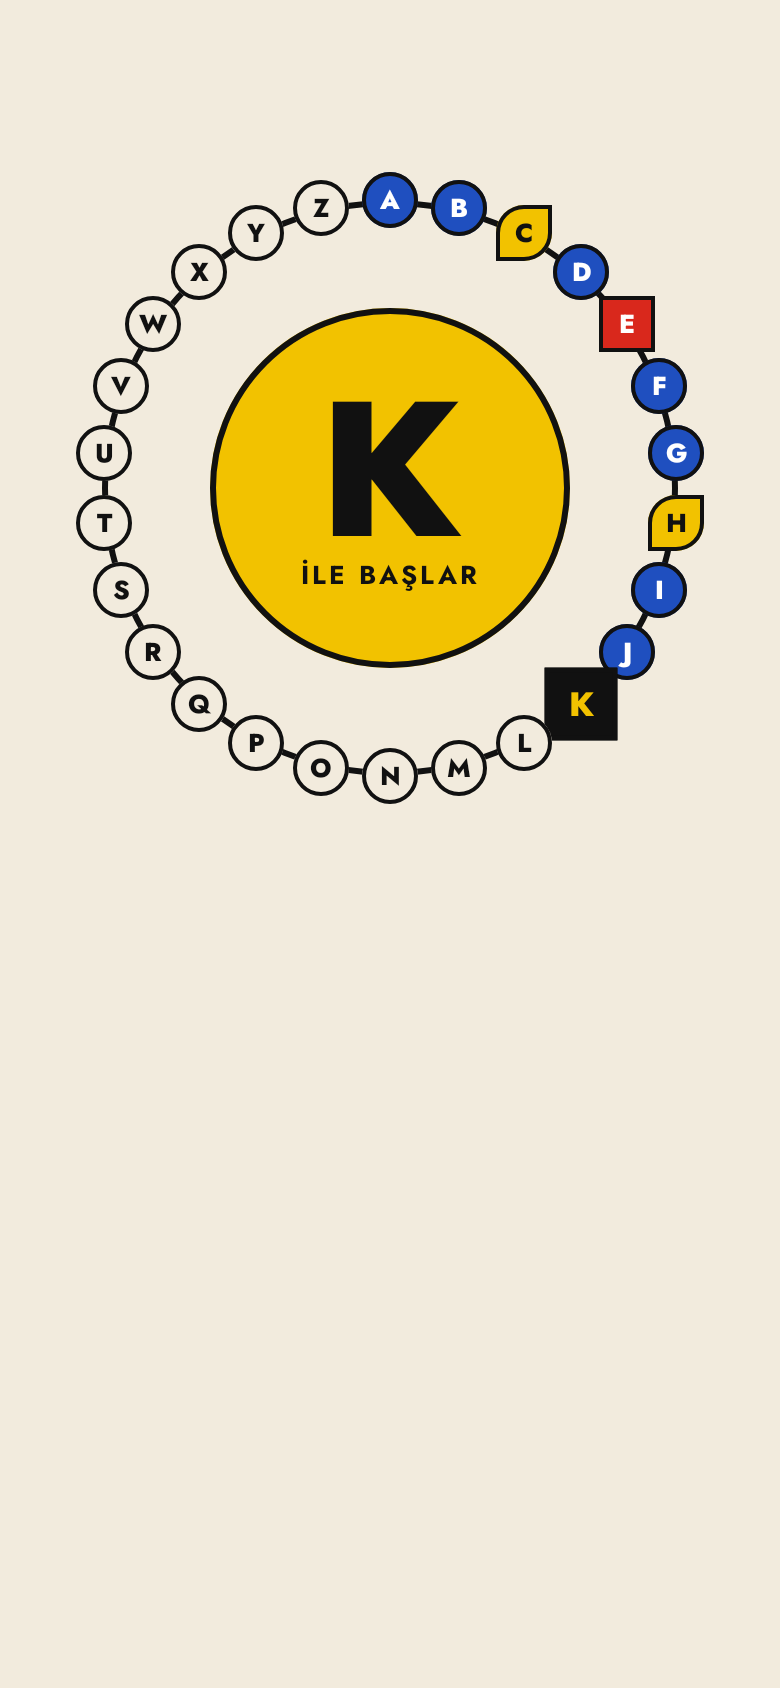
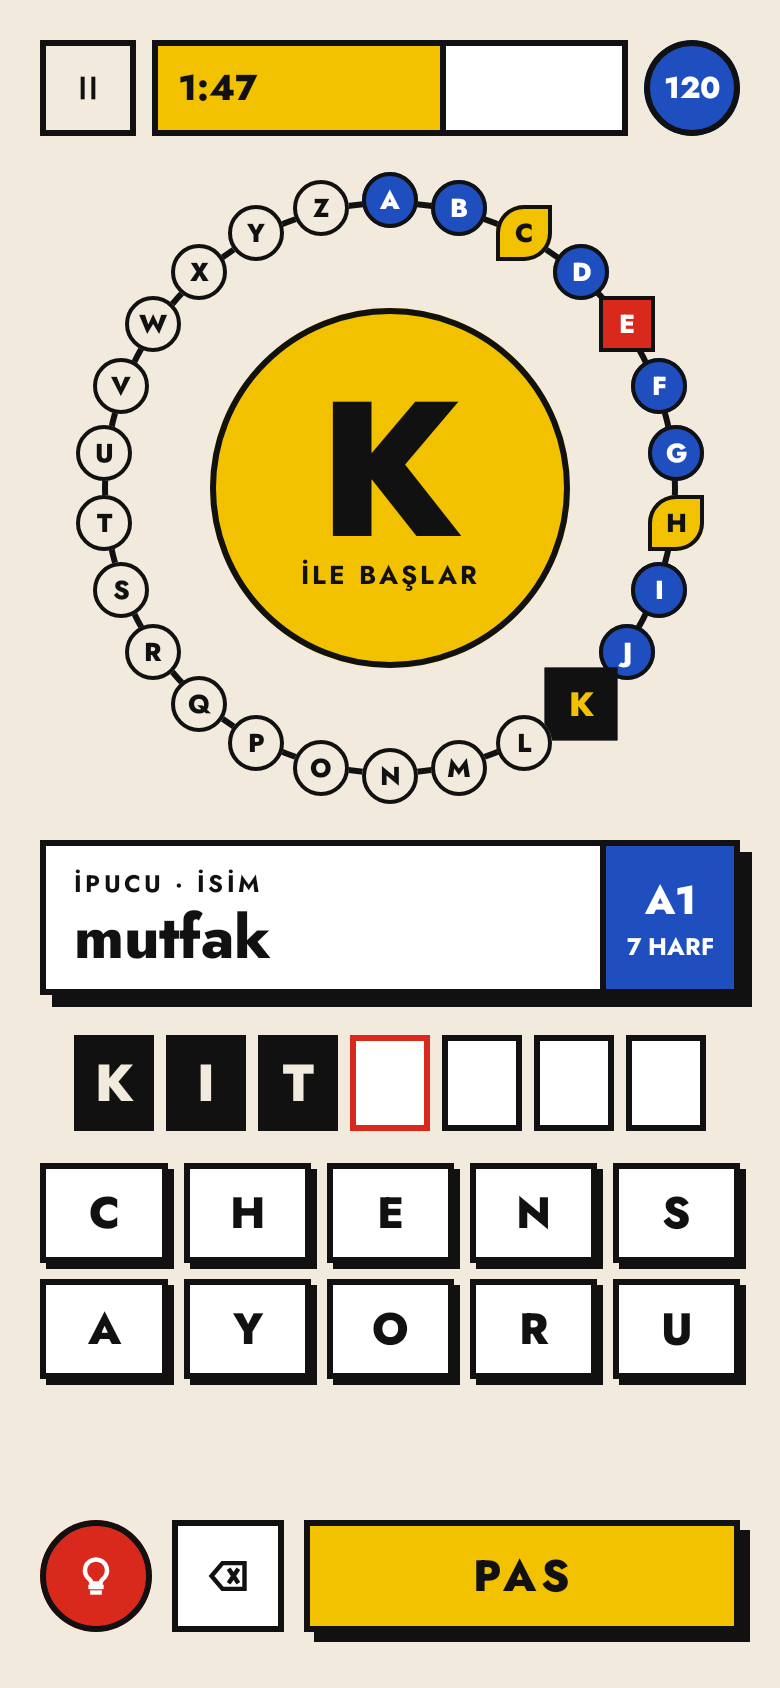
feat(designsystem): add ClueCard, TimerBar and ScoreBadge
- ClueCard: white, 3dp border, s6; label12 + clue (30/800, lh 1.05)
  with padding 10/14, and the 64dp blue column (3dp ink left border)
  with level (heading20) and letter count (new token caption12Bold).
- TimerBar: 48dp, 3dp border, white track, fill with a 3dp right edge;
  yellow, red in the last 10 s, when the counter pulses 1 -> 1.18 -> 1 on
  every new timeText (motion.md #8; 240 ms up / 280 ms down from the
  aPulse keyframes, new LexiMotion tokens; no scale under reduced
  motion). The counter is an overlay 10dp from the left so it stays
  readable when the fill is shorter than the text.
- ScoreBadge: 48dp blue circle, 3dp border, white bodyStrong15.
- GameComponents.png now holds the whole 04-game stack (top bar, wheel,
  clue, slots, 5-column keys, joker/backspace/PAS row). Against
  04-game.png: every element within 1px at 2x; the decor shapes come
  with DecorShape.

diff --git a/core/designsystem/src/commonMain/kotlin/dev/talhabayhan/lexi/core/designsystem/component/GameHud.kt b/core/designsystem/src/commonMain/kotlin/dev/talhabayhan/lexi/core/designsystem/component/GameHud.kt
@@ -1,0 +1,168 @@
+package dev.talhabayhan.lexi.core.designsystem.component
+
+import androidx.compose.animation.core.Animatable
+import androidx.compose.animation.core.LinearEasing
+import androidx.compose.animation.core.tween
+import androidx.compose.foundation.BorderStroke
+import androidx.compose.foundation.background
+import androidx.compose.foundation.layout.Arrangement
+import androidx.compose.foundation.layout.Box
+import androidx.compose.foundation.layout.Column
+import androidx.compose.foundation.layout.IntrinsicSize
+import androidx.compose.foundation.layout.Row
+import androidx.compose.foundation.layout.fillMaxHeight
+import androidx.compose.foundation.layout.fillMaxWidth
+import androidx.compose.foundation.layout.height
+import androidx.compose.foundation.layout.padding
+import androidx.compose.foundation.layout.size
+import androidx.compose.foundation.layout.width
+import androidx.compose.material3.Text
+import androidx.compose.runtime.Composable
+import androidx.compose.runtime.LaunchedEffect
+import androidx.compose.runtime.remember
+import androidx.compose.ui.Alignment
+import androidx.compose.ui.Modifier
+import androidx.compose.ui.graphics.graphicsLayer
+import androidx.compose.ui.semantics.semantics
+import androidx.compose.ui.tooling.preview.Preview
+import androidx.compose.ui.unit.Dp
+import androidx.compose.ui.unit.dp
+import dev.talhabayhan.lexi.core.designsystem.modifier.lexiSurface
+import dev.talhabayhan.lexi.core.designsystem.theme.LexiTheme
+
+/** Game HUD geometry (`04-game.html`). */
+public object GameHudDefaults {
+    /** 48: top bar height (pause, timer, score). */
+    public val BarHeight: Dp = 48.dp
+
+    /** Clue card: `padding: 10px 14px`, gap 2, right column 64 + 3dp border. */
+    internal val CluePaddingHorizontal: Dp = 14.dp
+    internal val CluePaddingVertical: Dp = 10.dp
+    internal val ClueSideWidth: Dp = 64.dp
+
+    /** Timer text inset from the bar's left edge. */
+    internal val TimerTextInset: Dp = 10.dp
+}
+
+/**
+ * The clue card: white, 3dp border, s6; label (e.g. "İPUCU · İSİM") over the Turkish clue on the left, the blue
+ * 64dp column with level and letter count ("A1", "7 HARF") on the right.
+ */
+@Composable
+public fun ClueCard(label: String, clue: String, level: String, letterCount: String, modifier: Modifier = Modifier) {
+    val colors = LexiTheme.colors
+    val typography = LexiTheme.typography
+    Row(
+        modifier = modifier
+            .height(IntrinsicSize.Min)
+            .lexiSurface(colors.white, BorderStroke(LexiTheme.borders.regular, colors.ink), LexiTheme.shadows.s6),
+    ) {
+        Column(
+            modifier = Modifier
+                .weight(1f)
+                .semantics(mergeDescendants = true) {}
+                .padding(
+                    horizontal = GameHudDefaults.CluePaddingHorizontal,
+                    vertical = GameHudDefaults.CluePaddingVertical,
+                ),
+            verticalArrangement = Arrangement.spacedBy(LexiTheme.dimens.gap2),
+        ) {
+            Text(label, style = typography.label12)
+            Text(clue, style = typography.clue)
+        }
+        Box(Modifier.width(LexiTheme.borders.regular).fillMaxHeight().background(colors.ink))
+        Column(
+            modifier = Modifier
+                .width(GameHudDefaults.ClueSideWidth)
+                .fillMaxHeight()
+                .semantics(mergeDescendants = true) {}
+                .background(colors.blue),
+            horizontalAlignment = Alignment.CenterHorizontally,
+            verticalArrangement = Arrangement.Center,
+        ) {
+            Text(level, style = typography.heading20, color = colors.white)
+            Text(letterCount, style = typography.caption12Bold, color = colors.white)
+        }
+    }
+}
+
+/**
+ * Countdown bar: 48dp, 3dp border, white track; the fill ([progress] 0..1) is yellow with a 3dp right edge, red in
+ * the last 10 s ([warning]), when the counter pulses 1 → 1.18 → 1 on every change of [timeText] (motion.md #8; no
+ * scale under reduced motion). The counter (18sp/800) sits 10dp from the left over the fill.
+ */
+@Composable
+public fun TimerBar(progress: Float, timeText: String, modifier: Modifier = Modifier, warning: Boolean = false) {
+    val colors = LexiTheme.colors
+    val motion = LexiTheme.motion
+    val border = LexiTheme.borders.regular
+    val pulse = remember { Animatable(1f) }
+    LaunchedEffect(timeText, warning, motion) {
+        if (!warning || motion.reducedMotion) {
+            pulse.snapTo(1f)
+            return@LaunchedEffect
+        }
+        pulse.animateTo(motion.timeWarningPulseScale, tween(motion.timeWarningPulseUpMillis, easing = LinearEasing))
+        pulse.animateTo(1f, tween(motion.timeWarningPulseDownMillis, easing = LinearEasing))
+    }
+    Box(
+        modifier = modifier
+            .height(GameHudDefaults.BarHeight)
+            .lexiSurface(colors.white, BorderStroke(border, colors.ink)),
+        contentAlignment = Alignment.CenterStart,
+    ) {
+        val fraction = progress.coerceIn(0f, 1f)
+        if (fraction > 0f) {
+            Row(Modifier.fillMaxWidth(fraction).fillMaxHeight()) {
+                Box(Modifier.weight(1f).fillMaxHeight().background(if (warning) colors.red else colors.yellow))
+                Box(Modifier.width(border).fillMaxHeight().background(colors.ink))
+            }
+        }
+        Text(
+            text = timeText,
+            style = LexiTheme.typography.heading18,
+            modifier = Modifier
+                .padding(start = GameHudDefaults.TimerTextInset)
+                .graphicsLayer {
+                    scaleX = pulse.value
+                    scaleY = pulse.value
+                },
+        )
+    }
+}
+
+/** Score badge: 48dp blue circle, 3dp border, white 15sp/800. */
+@Composable
+public fun ScoreBadge(score: String, modifier: Modifier = Modifier) {
+    Box(
+        modifier = modifier
+            .size(GameHudDefaults.BarHeight)
+            .lexiSurface(
+                color = LexiTheme.colors.blue,
+                border = BorderStroke(LexiTheme.borders.regular, LexiTheme.colors.ink),
+                shape = LexiTheme.shapes.circle,
+            ),
+        contentAlignment = Alignment.Center,
+    ) {
+        Text(score, style = LexiTheme.typography.bodyStrong15, color = LexiTheme.colors.white)
+    }
+}
+
+// design sample, not user-facing
+@Preview(widthDp = 390)
+@Composable
+private fun GameHudPreview() {
+    LexiTheme(reducedMotion = false) {
+        Column(
+            modifier = Modifier.background(LexiTheme.colors.cream).padding(LexiTheme.dimens.gap20),
+            verticalArrangement = Arrangement.spacedBy(LexiTheme.dimens.gap16),
+        ) {
+            Row(horizontalArrangement = Arrangement.spacedBy(LexiTheme.dimens.gap8)) {
+                TimerBar(progress = 0.62f, timeText = "1:47", modifier = Modifier.weight(1f))
+                ScoreBadge("120")
+            }
+            TimerBar(progress = 0.1f, timeText = "0:09", warning = true, modifier = Modifier.fillMaxWidth())
+            ClueCard(label = "İPUCU · İSİM", clue = "mutfak", level = "A1", letterCount = "7 HARF")
+        }
+    }
+}

diff --git a/core/designsystem/src/androidHostTest/kotlin/dev/talhabayhan/lexi/core/designsystem/component/GameSampleScreenshotTest.kt b/core/designsystem/src/androidHostTest/kotlin/dev/talhabayhan/lexi/core/designsystem/component/GameSampleScreenshotTest.kt
@@ -2,8 +2,9 @@ package dev.talhabayhan.lexi.core.designsystem.component
 
 import androidx.compose.foundation.background
 import androidx.compose.foundation.layout.Arrangement
-import androidx.compose.foundation.layout.Box
 import androidx.compose.foundation.layout.Column
+import androidx.compose.foundation.layout.Row
+import androidx.compose.foundation.layout.Spacer
 import androidx.compose.foundation.layout.fillMaxSize
 import androidx.compose.foundation.layout.fillMaxWidth
 import androidx.compose.foundation.layout.height
@@ -13,6 +14,7 @@ import androidx.compose.ui.Alignment
 import androidx.compose.ui.Modifier
 import androidx.compose.ui.unit.dp
 import com.github.takahirom.roborazzi.captureRoboImage
+import dev.talhabayhan.lexi.core.designsystem.icon.LexiIcons
 import dev.talhabayhan.lexi.core.designsystem.theme.LexiTheme
 import org.junit.Test
 import org.junit.runner.RunWith
@@ -57,12 +59,52 @@ private fun GameSample() {
             .padding(start = 20.dp, top = 20.dp, end = 20.dp, bottom = 28.dp),
         verticalArrangement = Arrangement.spacedBy(16.dp),
     ) {
-        Box(Modifier.fillMaxWidth().height(48.dp))
+        Row(Modifier.height(48.dp), horizontalArrangement = Arrangement.spacedBy(8.dp)) {
+            NavSquareButton(
+                LexiIcons.Pause,
+                "Duraklat",
+                onClick = {},
+                size = IconButtonDefaults.NavSizeLarge,
+                iconSize = IconButtonDefaults.IconSizeSmall,
+                containerColor = LexiTheme.colors.cream,
+            )
+            TimerBar(progress = 0.62f, timeText = "1:47", modifier = Modifier.weight(1f))
+            ScoreBadge("120")
+        }
         LetterWheel(
             letters = GameWheelLetters,
             centerLetter = 'K',
             ruleLabel = "İLE BAŞLAR",
             modifier = Modifier.align(Alignment.CenterHorizontally),
         )
+        ClueCard(label = "İPUCU · İSİM", clue = "mutfak", level = "A1", letterCount = "7 HARF")
+        Row(
+            modifier = Modifier.fillMaxWidth().padding(top = 4.dp),
+            horizontalArrangement = Arrangement.spacedBy(AnswerSlotDefaults.Gap, Alignment.CenterHorizontally),
+        ) {
+            "KIT".forEach { AnswerSlot(it, AnswerSlotState.Filled) }
+            AnswerSlot(null, AnswerSlotState.Active)
+            repeat(3) { AnswerSlot(null, AnswerSlotState.Empty) }
+        }
+        Column(verticalArrangement = Arrangement.spacedBy(LetterKeyDefaults.GridGap)) {
+            "CHENSAYORU".chunked(LetterKeyDefaults.COLUMNS).forEach { row ->
+                Row(horizontalArrangement = Arrangement.spacedBy(LetterKeyDefaults.GridGap)) {
+                    row.forEach { LetterKey(it, onClick = {}, modifier = Modifier.weight(1f)) }
+                }
+            }
+        }
+        Spacer(Modifier.weight(1f))
+        Row(horizontalArrangement = Arrangement.spacedBy(10.dp), verticalAlignment = Alignment.CenterVertically) {
+            ActionCircleButton(LexiIcons.Bulb, "Joker kullan", onClick = {})
+            IconSquareButton(LexiIcons.Backspace, "Harf sil", onClick = {})
+            LexiButton(
+                text = "PAS",
+                onClick = {},
+                variant = LexiButtonVariant.Pass,
+                textStyle = LexiTheme.typography.button22,
+                height = LexiButtonDefaults.LargeHeight,
+                modifier = Modifier.weight(1f),
+            )
+        }
     }
 }

diff --git a/core/designsystem/src/commonMain/kotlin/dev/talhabayhan/lexi/core/designsystem/theme/LexiTypography.kt b/core/designsystem/src/commonMain/kotlin/dev/talhabayhan/lexi/core/designsystem/theme/LexiTypography.kt
@@ -87,6 +87,8 @@ public class LexiTypography internal constructor(
     public val label12: TextStyle,
     /** 13 / 800: wheel letters. */
     public val wheelChip: TextStyle,
+    /** 12 / 700: clue-card letter count "7 HARF" (`04-game`). */
+    public val caption12Bold: TextStyle,
     /** 16 / 600: list row labels (`11-settings`). */
     public val body16SemiBold: TextStyle,
     /** 14 / 600: level-card subtitles, empty state (`03-level-select`). */
@@ -197,6 +199,7 @@ internal fun lexiTypography(jost: FontFamily): LexiTypography {
         label13 = style(13, FontWeight.Bold, letterSpacing = 0.14.em),
         label12 = style(12, FontWeight.Bold, letterSpacing = 0.14.em),
         wheelChip = style(13, extraBold),
+        caption12Bold = style(12, FontWeight.Bold),
         body16SemiBold = style(16, FontWeight.SemiBold),
         caption14SemiBold = style(14, FontWeight.SemiBold),
         caption13SemiBold = style(13, FontWeight.SemiBold),

diff --git a/core/designsystem/src/commonMain/kotlin/dev/talhabayhan/lexi/core/designsystem/theme/LexiMotion.kt b/core/designsystem/src/commonMain/kotlin/dev/talhabayhan/lexi/core/designsystem/theme/LexiMotion.kt
@@ -69,6 +69,15 @@ public class LexiMotion internal constructor(
     /** #12 screen transitions. */
     public val screenTransitionDurationMillis: Int = 220
 
+    /** #8 time warning: counter scale-up of the once-a-second pulse (`aPulse`, 69 → 75 % of 4 s). */
+    public val timeWarningPulseUpMillis: Int = 240
+
+    /** #8 time warning: counter scale-down back to 1 (`aPulse`, 75 → 82 % of 4 s). */
+    public val timeWarningPulseDownMillis: Int = 280
+
+    /** #8 time warning: peak counter scale. */
+    public val timeWarningPulseScale: Float = 1.18f
+
     /** #9 splash, total in app. */
     public val splashDurationMillis: Int = 1200
 
